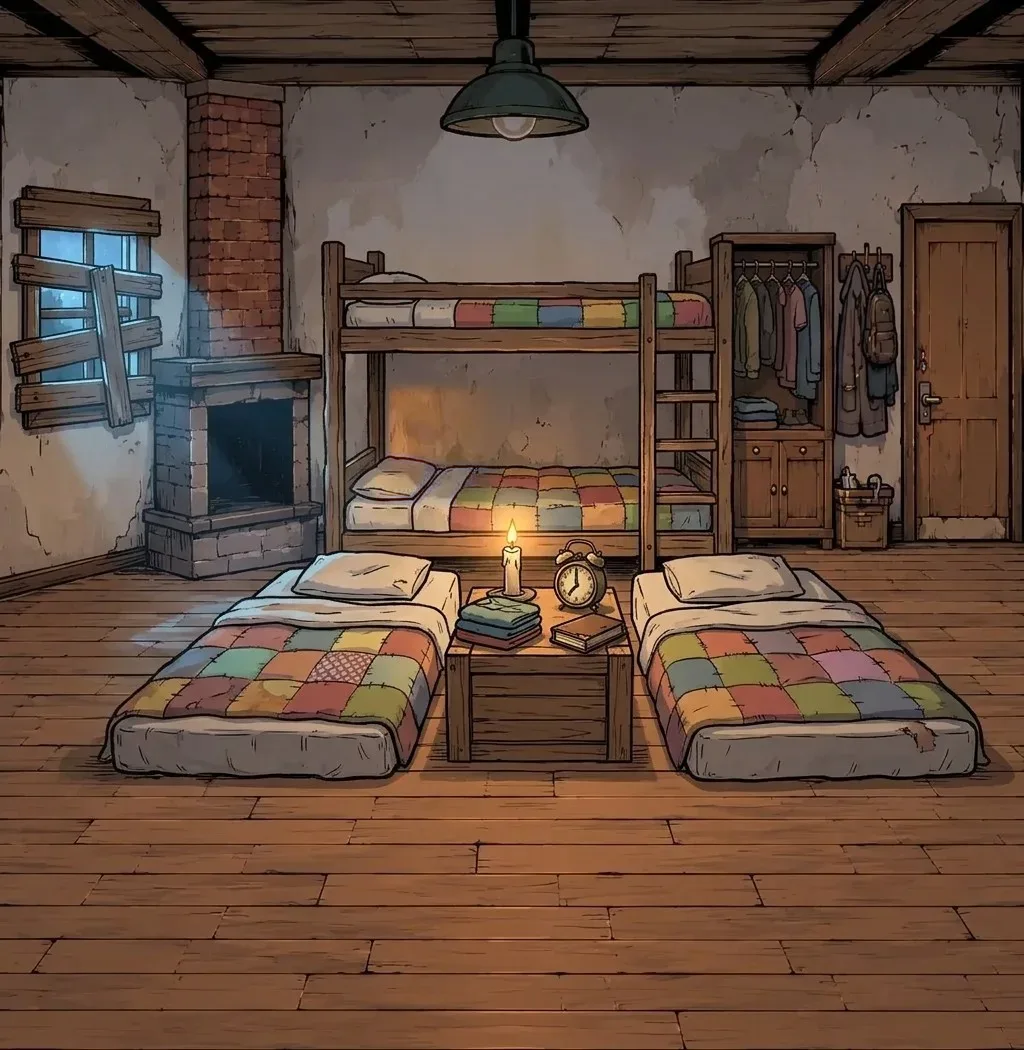
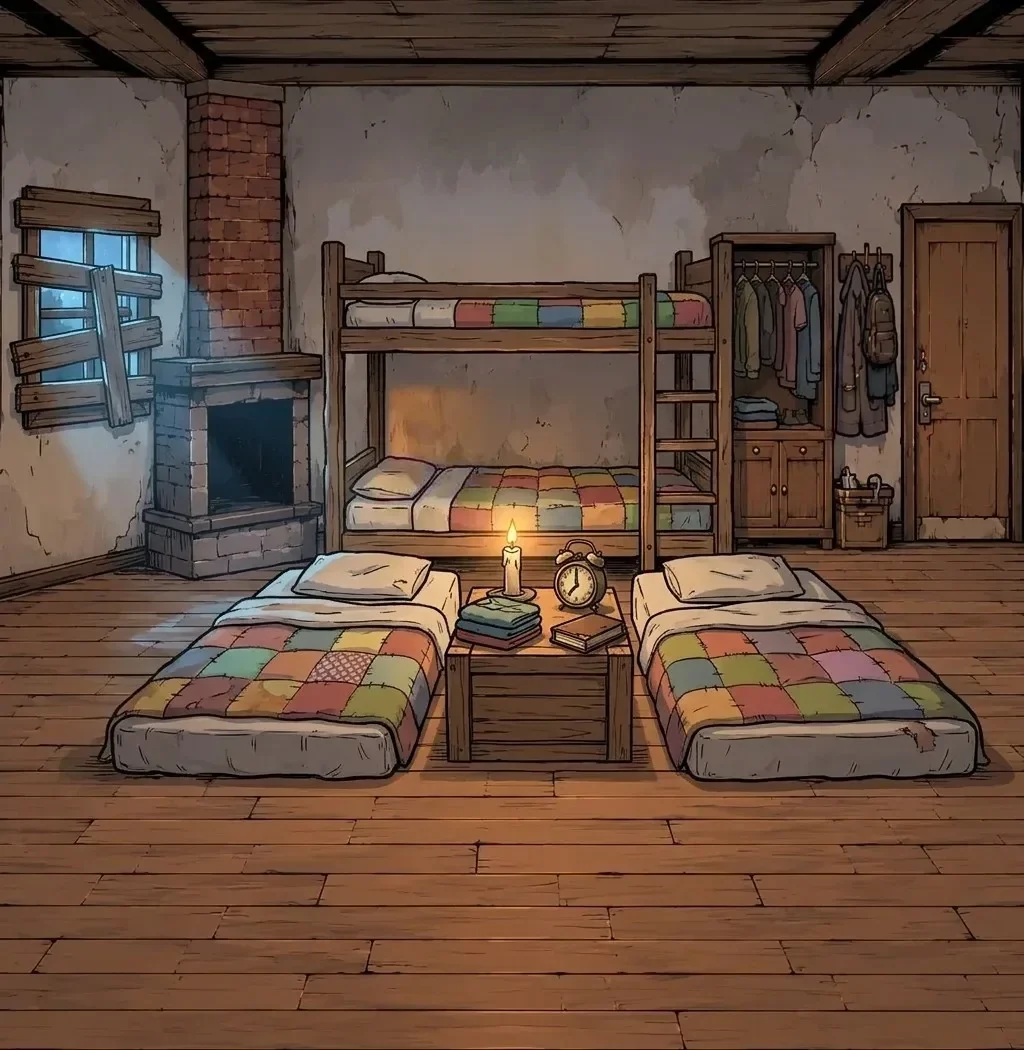
Pièces sans lampe au plafond (base propre) ; lampes à pétrole collées retirées

Changed region(s): [[0.4062, 0.0, 0.5938, 0.1829]]

diff --git a/piece.js b/piece.js
@@ -671,12 +671,9 @@ var FEUX_PIECE = {
    Les ampoules allumées du salon, de l'atelier, du garage et de la réserve sont recouvertes par une lampe à pétrole
    suspendue et sa lueur, découpées dans des retouches Gemini calées au pixel près sur chaque pièce (images/lampes/).
    Posées tout en dessous des autres décors (elles ne touchent rien d'autre). Le garage réparé a le même cadrage. */
-var LAMPES_PIECE = {
-  salon:   ["images/lampes/salon.webp",   400, 0, 640, 205],
-  atelier: ["images/lampes/atelier.webp", 400, 0, 640, 205],
-  garage:  ["images/lampes/garage.webp",  300, 60, 470, 352],
-  reserve: ["images/lampes/reserve.webp", 430, 0, 610, 250]
-};
+// 2026-11-14 (retour de Fabien : reflets ratés) : plus de lampe collée ; les pièces de base n'ont plus aucune lampe au plafond
+// (retouches Gemini recollées sur la zone de la lampe). Une lanterne unique pourra être ajoutée ici plus tard.
+var LAMPES_PIECE = {};
 (function(){
   Object.keys(LAMPES_PIECE).forEach(function(id){
     var P = PIECES.find(function(p){ return p.id === id; }); if(!P) return;

diff --git a/site/piece.js b/site/piece.js
@@ -671,12 +671,9 @@ var FEUX_PIECE = {
    Les ampoules allumées du salon, de l'atelier, du garage et de la réserve sont recouvertes par une lampe à pétrole
    suspendue et sa lueur, découpées dans des retouches Gemini calées au pixel près sur chaque pièce (images/lampes/).
    Posées tout en dessous des autres décors (elles ne touchent rien d'autre). Le garage réparé a le même cadrage. */
-var LAMPES_PIECE = {
-  salon:   ["images/lampes/salon.webp",   400, 0, 640, 205],
-  atelier: ["images/lampes/atelier.webp", 400, 0, 640, 205],
-  garage:  ["images/lampes/garage.webp",  300, 60, 470, 352],
-  reserve: ["images/lampes/reserve.webp", 430, 0, 610, 250]
-};
+// 2026-11-14 (retour de Fabien : reflets ratés) : plus de lampe collée ; les pièces de base n'ont plus aucune lampe au plafond
+// (retouches Gemini recollées sur la zone de la lampe). Une lanterne unique pourra être ajoutée ici plus tard.
+var LAMPES_PIECE = {};
 (function(){
   Object.keys(LAMPES_PIECE).forEach(function(id){
     var P = PIECES.find(function(p){ return p.id === id; }); if(!P) return;

diff --git a/site/sw.js b/site/sw.js
@@ -4,7 +4,7 @@
    IMPORTANT : à chaque mise à jour du jeu, changer VERSION (sinon les
    téléphones garderaient l'ancienne copie).
    ===================================================================== */
-var VERSION = "survival-20261114-1211";
+var VERSION = "survival-20261114-1224";
 var FICHIERS = [
   "./",
   "index.html",

diff --git a/preparer-site.py b/preparer-site.py
@@ -14,7 +14,7 @@ for f in FICHIERS: shutil.copy(f, "site/" + f)
 for f in os.listdir("images"):
     if f.endswith((".webp", ".png")): shutil.copy("images/" + f, "site/images/" + f)
 # Illustrations des lieux et des événements (sous-dossiers)
-for sd in ["lieux", "evenements", "combat", "blasons", "ligues", "zombies", "icones", "immeuble", "barricades", "feux", "personnages", "folie", "lampes"]:
+for sd in ["lieux", "evenements", "combat", "blasons", "ligues", "zombies", "icones", "immeuble", "barricades", "feux", "personnages", "folie"]:
     if os.path.isdir("images/" + sd):
         os.makedirs("site/images/" + sd)
         for f in os.listdir("images/" + sd):
